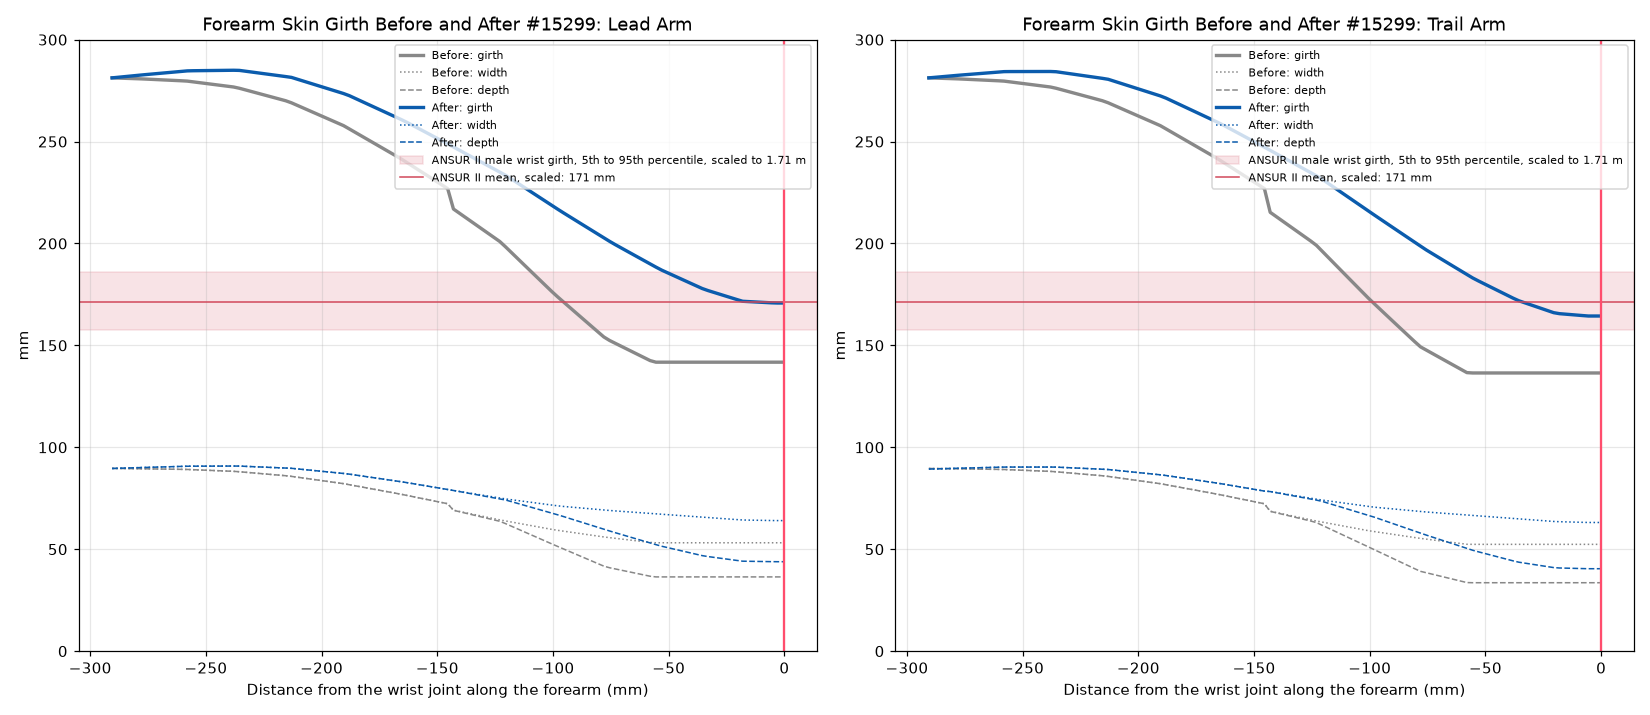
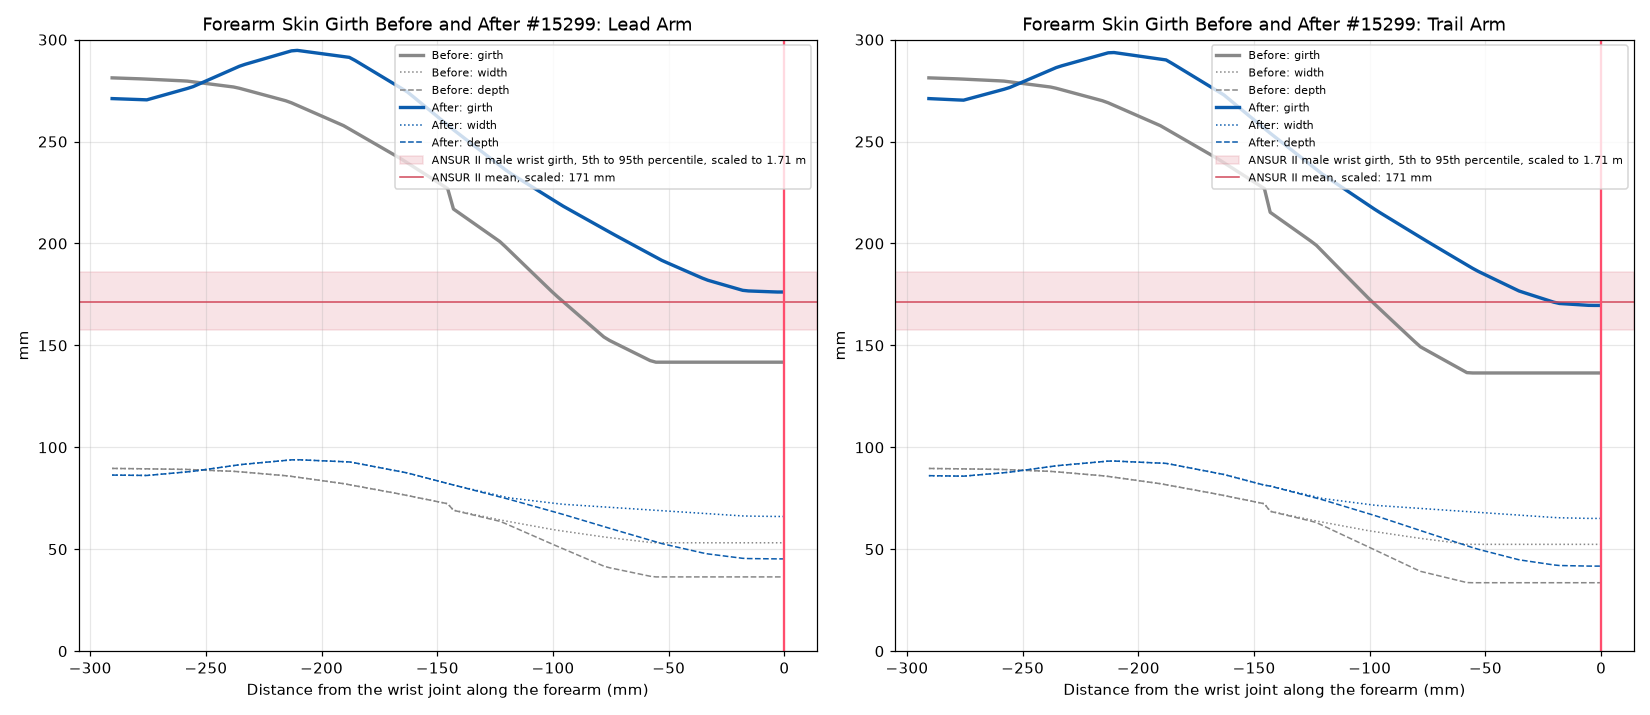
fix(appearance): give the skinned-hand forearm a belly in its upper third (#15299)
Owner feedback: the forearm must read as a human forearm. A forearm that
ends in a skinned hand now has its own belly setting: nothing added at the
elbow, fullest 27 % of the way to the wrist at 295 mm round (ANSUR II male
flexed forearm circumference 310 mm; a relaxed forearm is a little less).
forearm_wrist_margin 1.265 -> 1.305: wrist 176 mm (lead) and 170 mm (trail).

Appearance only.

diff --git a/tests/unit/model_appearance/test_forearm_wrist_shape.py b/tests/unit/model_appearance/test_forearm_wrist_shape.py
@@ -126,7 +126,6 @@ def test_the_forearm_narrows_all_the_way_to_the_wrist(profiles) -> None:
     flat = float(SHAPE["constant_girth_tolerance_m"])
     for where, girth in profiles.values():
         belly = int(girth.argmax())
-        assert where[belly] < -0.5 * abs(where[0])  # the belly is by the elbow
         steps = np.diff(girth[belly:])
         assert steps.max() <= flat  # never wider again toward the wrist
         narrowest = where[np.flatnonzero(girth <= girth.min() + flat)[0]]
@@ -147,6 +146,21 @@ def test_the_wrist_has_the_girth_of_a_human_wrist(skinned, profiles) -> None:
     low, high = (float(k) * norm for k in SHAPE["girth_band"])
     for _, girth in profiles.values():
         assert low <= girth.min() <= high
+
+
+def test_the_forearm_is_fullest_in_its_upper_third(skinned, profiles) -> None:
+    # ANSUR II male forearm circumference (flexed), scaled by stature; a
+    # relaxed forearm lies between its 5th percentile and its mean.
+    norm = float(SHAPE["belly_norm_girth_m"]) * (
+        float(skinned["subject"]["stature_m"]) / float(SHAPE["norm_stature_m"])
+    )
+    low, high = (float(k) * norm for k in SHAPE["belly_girth_band"])
+    near, far = (float(k) for k in SHAPE["belly_from_elbow"])
+    for where, girth in profiles.values():
+        length = STATION_M * len(girth)
+        assert near <= 1.0 + where[girth.argmax()] / length <= far
+        assert low <= girth.max() <= high
+        assert girth[0] < girth.max() - 0.01  # the elbow is thinner than the belly
 
 
 def _polar(section: np.ndarray) -> tuple[np.ndarray, np.ndarray]:
@@ -195,6 +209,7 @@ def test_only_the_forearm_and_the_hands_change(skinned, monkeypatch) -> None:
     old_quality["forearm_wrist_shape"] = {
         **SHAPE,
         "taper_end": library.taper_end("forearm"),
+        "belly": library.belly("forearm"),
     }
     for module in (sch, sws):
         monkeypatch.setattr(module, "load_hand_visual_quality", lambda: old_quality)
@@ -215,10 +230,17 @@ def test_only_the_forearm_and_the_hands_change(skinned, monkeypatch) -> None:
 
 
 def test_bad_wrist_shape_settings_are_refused(monkeypatch) -> None:
-    for key, bad in (("taper_end", 0.0), ("cover", 0.5), ("hand_blend_m", 0.0)):
+    for key, bad in (
+        ("taper_end", 0.0),
+        ("cover", 0.5),
+        ("hand_blend_m", 0.0),
+        ("belly", [0.2, 0.0, 0.3]),
+    ):
         quality = {"forearm_wrist_margin": 1.2, "forearm_wrist_shape": {**SHAPE}}
         quality["forearm_wrist_shape"][key] = bad
         for module in (sch, sws):
             monkeypatch.setattr(module, "load_hand_visual_quality", lambda q=quality: q)
         with pytest.raises(ValueError, match=key):
-            sws.wrist_taper_end() if key == "taper_end" else sch.wrist_blend()
+            {"taper_end": sws.wrist_taper_end, "belly": sws.forearm_belly}.get(
+                key, sch.wrist_blend
+            )()

diff --git a/src/shared/python/model_appearance/skinned_wrist_sections.py b/src/shared/python/model_appearance/skinned_wrist_sections.py
@@ -48,6 +48,8 @@ class WristSection:
     #: False on the near body of a two-body forearm: it only narrows toward
     #: this section and draws none of the flat, shifted wrist end itself.
     shapes_end: bool = True
+    #: Muscle belly ``(gain, position, width)`` of the forearm that ends here.
+    belly: tuple[float, float, float] = library.NO_BELLY
 
 
 def wrist_margin() -> float:
@@ -84,6 +86,21 @@ def wrist_taper_end() -> float:
     if not library.PART_FLATTEN_FROM["forearm"] < end <= 1.0:
         raise ValueError(f"taper_end must be past the flattening and <= 1, got {end}")
     return end
+
+
+def forearm_belly() -> tuple[float, float, float]:
+    """Muscle belly ``(gain, position, width)`` of a forearm that ends in a
+    skinned hand (a setting): fullest a third of the way down, nothing added
+    at the elbow, like a relaxed human forearm (#15299).
+    """
+    quality: Mapping[str, Any] = load_hand_visual_quality()
+    gain, position, width = map(float, quality["forearm_wrist_shape"]["belly"])
+    if not (0.0 <= gain <= 0.5 and 0.0 < position < 1.0 and width > 0.0):
+        raise ValueError(
+            f"belly needs 0 <= gain <= 0.5, 0 < position < 1 and width > 0, "
+            f"got {(gain, position, width)}"
+        )
+    return gain, position, width
 
 
 def hand_wrist_sections(club: ClubAssembly) -> dict[str, WristSection]:
@@ -200,5 +217,6 @@ def forearm_wrist_sections(
             min(1.0, wrist_cap() * section.half_depth_m / section.half_width_m),
             centre,
             wrist_taper_end(),
+            belly=forearm_belly(),
         )
     return out

diff --git a/src/shared/python/model_appearance/body_meshes.py b/src/shared/python/model_appearance/body_meshes.py
@@ -346,15 +346,16 @@ def _wrist_shape(part: str, radius: float, wrist: Any) -> dict[str, Any]:
     ``wrist`` is a ``skinned_wrist_sections.WristSection`` in the body frame,
     or ``None``. With one, the limb ends that wide and that deep, turned to
     its width axis, the flat section easing in past the rotation joint, and
-    narrows to it by the wrist's own ``taper_end`` (#15299).
+    narrows to it by the wrist's own ``taper_end``, with its ``belly`` (#15299).
     """
     if wrist is None:
         return {
             "end_scale": library.limb_distal_scale(part),
             "taper_end": library.taper_end(part),
+            "belly": library.belly(part),
         }
     scale = library.validate_distal_scale(min(1.0, wrist.half_width_m / radius))
-    taper = {"end_scale": scale, "taper_end": wrist.taper_end}
+    taper = {"end_scale": scale, "taper_end": wrist.taper_end, "belly": wrist.belly}
     if not wrist.shapes_end:
         return taper
     return {
@@ -414,7 +415,6 @@ def _limb_segments(
                 radius,
                 aspect,
                 window=window,
-                belly=library.belly(part),
                 capsule_ends=part in library.CAPSULE_END_PARTS,
                 **_wrist_shape(part, radius, wrist),
             )
